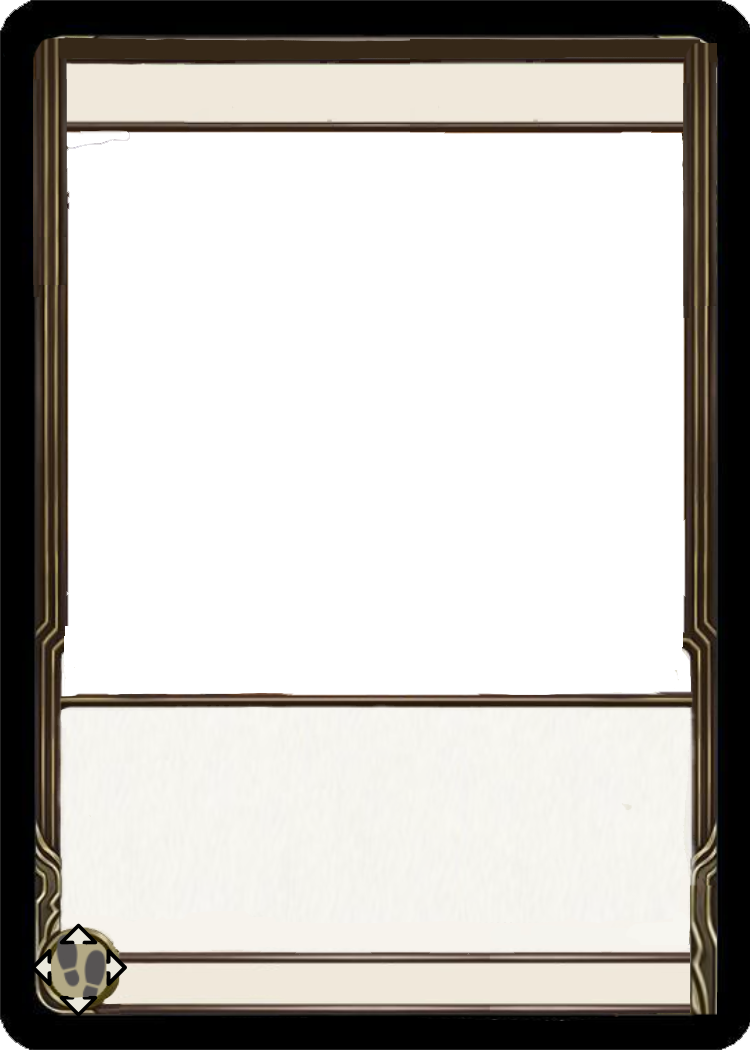
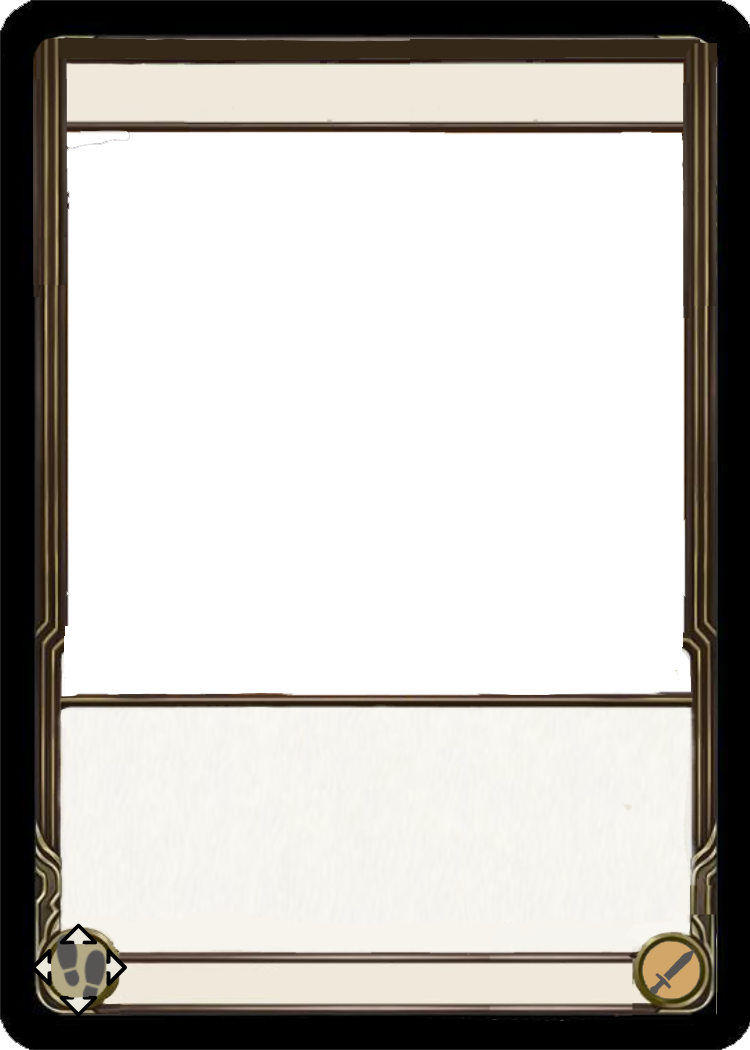
Adds attack val to wielder

Changed region(s): [[0.828, 0.8533, 0.9813, 0.9752]]

diff --git a/client/src/game/board/cards/Card.tsx b/client/src/game/board/cards/Card.tsx
@@ -72,17 +72,21 @@ export default class Card extends React.Component<AnyCardT & {displayOverlay?: b
             moveText = <div className={css.moveText}>{this.props.move}</div>
         }
         
-        let attackText;
-        if (this.props.attack != null  && template !== "Structure") {
-           attackText = <div className={css.attackText}>{this.props.attack}</div>;
-        } 
+        
 
         let portraitStyle: React.CSSProperties|undefined;
         let descriptionStyle: React.CSSProperties|undefined;
+        let attackStyle: React.CSSProperties|undefined;
         if (template === "Wielder") {
             portraitStyle = {height: "3in", width: "2.5in"};
             descriptionStyle = {textShadow: TEXT_SHADOW_VALUE, top: "228px"}
+            attackStyle = {left: "195px", top: "292px"}
         }
+
+        let attackText;
+        if (this.props.attack != null  && template !== "Structure") {
+           attackText = <div className={css.attackText} style={attackStyle}>{this.props.attack}</div>;
+        } 
 
         let rules: RulesText;
         let rulesRender: ReactElement;

diff --git a/client/src/game/board/cards/Card.module.css b/client/src/game/board/cards/Card.module.css
@@ -24,7 +24,7 @@
     position: relative;
     z-index: 4;
     max-width: 124px;
-    top: -72px;
+    top: -74px;
     left: 103px;
     line-height: 8px; 
     margin: 0px;
